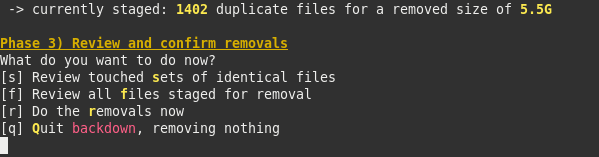
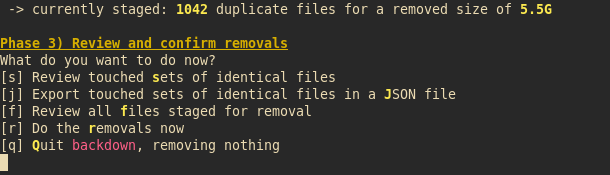
option to export a removal report as JSON
Fix #3

Changed region(s): [[0.0, 0.2038, 0.7513, 0.9936], [0.0, 0.0, 0.9316, 0.1019]]

diff --git a/src/removal_report.rs b/src/removal_report.rs
@@ -1,8 +1,9 @@
 use {
     crate::*,
     minimad::*,
+    serde_json::{json, Value},
     std::{
-        collections::HashSet,
+        collections::{HashMap, HashSet},
         fs,
         path::Path,
     },
@@ -21,6 +22,7 @@ pub struct RemovalReport<'d> {
 
 
 impl<'d> RemovalReport<'d> {
+
     pub fn stage_file(&mut self, dup_file_ref: DupFileRef, dups: &[DupSet]) {
         self.len_to_remove += dups[dup_file_ref.dup_set_idx].file_len;
         self.dup_sets_with_staged.insert(dup_file_ref.dup_set_idx);
@@ -54,6 +56,39 @@ impl<'d> RemovalReport<'d> {
                 file_size::fit_4(size),
             );
         }
+    }
+
+    /// write the report as a JSON file
+    pub fn dup_sets_as_json(
+        &self,
+        dups: &[DupSet],
+    ) -> Value {
+        json!({
+            "len_to_remove": self.len_to_remove,
+            "dup_sets": dups.iter().enumerate()
+                .filter_map(|(dup_set_idx, dup_set)| {
+                    if !self.dup_sets_with_staged.contains(&dup_set_idx) {
+                        return None;
+                    }
+                    Some(json!({
+                        "file_len": dup_set.file_len,
+                        "files": dup_set.files.iter()
+                            .enumerate()
+                            .map(|(dup_file_idx, file)| {
+                                let file = file.path.to_string_lossy().to_string();
+                                let file_ref = DupFileRef { dup_set_idx, dup_file_idx };
+                                let action = if self.staged_removals.contains(&file_ref) {
+                                    "remove"
+                                } else {
+                                    "keep"
+                                };
+                                (file, action)
+                            })
+                            .collect::<HashMap<String, &'static str>>()
+                    }))
+                })
+                .collect::<Vec<Value>>(),
+        })
     }
 
     pub fn list_dup_sets(

diff --git a/src/main.rs b/src/main.rs
@@ -40,22 +40,41 @@ fn run_app() -> Result<()> {
         return Ok(());
     }
     skin.print_text("\n# Phase 3) Review and confirm removals");
+    let mut exported = false;
     loop {
-        ask!(&skin, "What do you want to do now?", {
-            ('s', "Review touched **s**ets of identical files") => {
+        let mut question = Question::new("What do you want to do now?");
+        question.add_answer('s', "Review touched **s**ets of identical files");
+        if !exported {
+            question.add_answer(
+                'j',
+                "Export touched sets of identical files in a **J**SON file",
+            );
+        }
+        question.add_answer('f', "Review all **f**iles staged for removal");
+        question.add_answer('r', "Do the **r**emovals now");
+        question.add_answer('q', "**Q**uit *backdown*, removing nothing");
+        match question.ask(&skin)?.as_ref() {
+            "s" => {
                 rr.list_dup_sets(&dup_report.dups, &skin);
             }
-            ('f', "Review all **f**iles staged for removal") => {
+            "j" => {
+                let value = rr.dup_sets_as_json(&dup_report.dups);
+                let path = write_in_file("backdown-report", &value)?;
+                mad_print_inline!(skin, "Wrote *$0*\n", path.to_string_lossy());
+                exported = true;
+            }
+            "f" => {
                 rr.list_staged_removals(&dup_report.dups, &skin);
             }
-            ('r', "Do the **r**emovals now") => {
+            "r" => {
                 rr.do_the_removal(&dup_report.dups, &skin)?;
                 break;
             }
-            ('q', "**Q**uit *backdown*, removing nothing") => {
+            "q" => {
                 break;
             }
-        });
+            _ => {} // should not happen
+        }
     }
     Ok(())
 }

diff --git a/src/json.rs b/src/json.rs
@@ -1,0 +1,46 @@
+use {
+    serde_json::Value,
+    std::{
+        fs,
+        io::Write,
+        path::PathBuf,
+    },
+};
+
+fn available_path(name: &str) -> PathBuf {
+    let mut count = 1;
+    let ext = "json";
+    loop {
+        let cmp = if count > 1 {
+            format!("-{}", count)
+        } else {
+            "".to_string()
+        };
+        let file_name = format!(
+            "{}-{}{}.{}",
+            chrono::Local::now().format("%F-%Hh%M"),
+            name,
+            cmp,
+            ext,
+        );
+        let path = PathBuf::from(file_name);
+        if !path.exists() {
+            return path;
+        }
+        count += 1;
+    }
+}
+
+/// write a JSON value in a file whose name will be based on the provided
+/// name, with a date and if necessary with an additional number to avoid
+/// collision.
+pub fn write_in_file(
+    name: &str,
+    value: &Value,
+) -> anyhow::Result<PathBuf> {
+    let path = available_path(name);
+    let mut file = fs::File::create(&path)?;
+    let json = serde_json::to_string_pretty(value)?;
+    write!(&mut file, "{}\n", json)?;
+    Ok(path)
+}

diff --git a/src/ask.rs b/src/ask.rs
@@ -38,6 +38,9 @@ pub fn ask_on_dirs<'d>(
         mad_print_inline!(
             skin,
             " -> currently staged: **$0** duplicate files for a removed size of **$1**\n",
+            // two following lines used for some screenshots so that I don't redo the staging
+            // 1042,
+            // "5.5G",
             rr.staged_removals.len(),
             file_size::fit_4(rr.len_to_remove),
         );

diff --git a/src/lib.rs b/src/lib.rs
@@ -5,9 +5,10 @@ pub mod ask;
 pub mod dirs;
 pub mod dup;
 pub mod dup_report;
-pub mod file_pair;
 pub mod ext;
+pub mod file_pair;
 pub mod hash;
+mod json;
 pub mod removal_report;
 
 pub use {
@@ -19,5 +20,6 @@ pub use {
     file_pair::*,
     ext::*,
     hash::*,
+    json::*,
     removal_report::*,
 };

diff --git a/README.md b/README.md
@@ -88,6 +88,51 @@ backdown /some/directory
 backdown -i /some/directory
 ```
 
+## JSON report
+
+After the staging phase, you may decide to export a report as JSON. This doesn't prevent doing also the removals.
+
+The JSON looks like this:
+
+```JSON
+{
+  "dup_sets": [
+    {
+      "file_len": 1212746,
+      "files": {
+        "trav-copy/2006-05 (mai)/HPIM0530.JPG": "remove",
+        "trav-copy/2006-06 (juin)/HPIM0530 (another copy).JPG": "remove",
+        "trav-copy/2006-06 (juin)/HPIM0530 (copy).JPG": "remove",
+        "trav-copy/2006-06 (juin)/HPIM0530.JPG": "keep"
+      }
+    },
+    {
+      "file_len": 1980628,
+      "files": {
+        "trav-copy/2006-03 (mars)/HPIM0608.JPG": "keep",
+        "trav-copy/2006-05 (mai)/HPIM0608.JPG": "remove",
+        "trav-copy/2006-06 (juin)/HPIM0608.JPG": "keep"
+      }
+    },
+    {
+      "file_len": 1124764,
+      "files": {
+        "trav-copy/2006-05 (mai)/HPIM0529.JPG": "remove",
+        "trav-copy/2006-06 (juin)/HPIM0529.JPG": "keep"
+      }
+    },
+    {
+      "file_len": 1706672,
+      "files": {
+        "trav-copy/2006-05 (mai)/test.jpg": "remove",
+        "trav-copy/2006-06 (juin)/HPIM0598.JPG": "keep"
+      }
+    }
+  ],
+  "len_to_remove": 8450302
+}
+```
+
 # Advices
 
 * If you launch backdown on a big directory, it may find more duplicates you suspect there are. Don't force yourself to answer *all* questions at first: if you stage the removals of the first dozen questions you'll gain already a lot and you may do the other ones another day

diff --git a/CHANGELOG.md b/CHANGELOG.md
@@ -1,3 +1,6 @@
+### next
+- option to write the report in a JSON file after staging phase
+
 <a name="v1.0.0"></a>
 ### v1.0.0 - 2021-10-02
 No reason not to call this a 1.0
